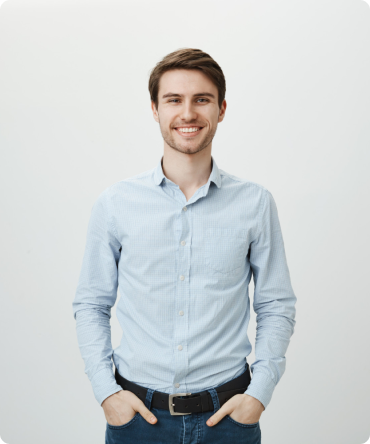
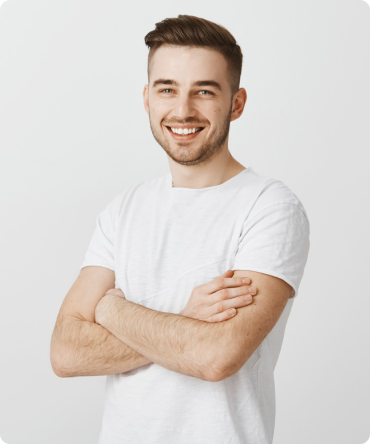
3rd commit

diff --git a/index.html b/index.html
@@ -281,8 +281,44 @@
           </div>
           <div class="row">
             <div class="col-lg-4">
-              <div class="memberimg">
-                <img src="images/Rectangle 20.png" alt="Rectangle" />
+              <div class="memberimg_item">
+                <img class="w-100" src="images/assa.png" alt="assa" />
+                <div class="teammember_overly">
+                  <div class="overly_rapper">
+                    <h2 class="overly_heading">Mahid Ahmed</h2>
+                    <h3 class="overly_subheading">UX Designer</h3>
+                  </div>
+                </div>
+              </div>
+            </div>
+            <div class="col-lg-4">
+              <div class="memberimg_item">
+                <img
+                  class="w-100"
+                  src="images/Rectangle 20.png"
+                  alt="Rectangle"
+                />
+                <div class="teammember_overly">
+                  <div class="overly_rapper">
+                    <h2 class="overly_heading">Hasan Imam</h2>
+                    <h3 class="overly_subheading">UI Designer</h3>
+                  </div>
+                </div>
+              </div>
+            </div>
+            <div class="col-lg-4">
+              <div class="memberimg_item">
+                <img
+                  class="w-100"
+                  src="images/Rectangle 20 (1).png"
+                  alt="Rectangle"
+                />
+                <div class="teammember_overly">
+                  <div class="overly_rapper">
+                    <h2 class="overly_heading">Kazi Afia</h2>
+                    <h3 class="overly_subheading">Digital Marketor</h3>
+                  </div>
+                </div>
               </div>
             </div>
           </div>

diff --git a/style.css b/style.css
@@ -166,3 +166,32 @@ header {
   margin-bottom: 200px;
   margin-top: 100px;
 }
+.memberimg_item {
+  position: relative;
+}
+.teammember_overly {
+  width: 100%;
+  height: 300px;
+  background: linear-gradient(0deg, rgb(89, 86, 232), transparent, transparent);
+  position: absolute;
+  bottom: 0;
+  left: 0;
+  display: flex;
+  align-items: end;
+  justify-content: center;
+}
+.overly_heading {
+  font-size: 20px;
+  font-weight: 500;
+  line-height: 27px;
+  color: var(--white);
+}
+.overly_rapper {
+  text-align: center;
+}
+.overly_subheading {
+  font-size: 16px;
+  font-weight: 400;
+  line-height: 27px;
+  color: var(--white);
+}
